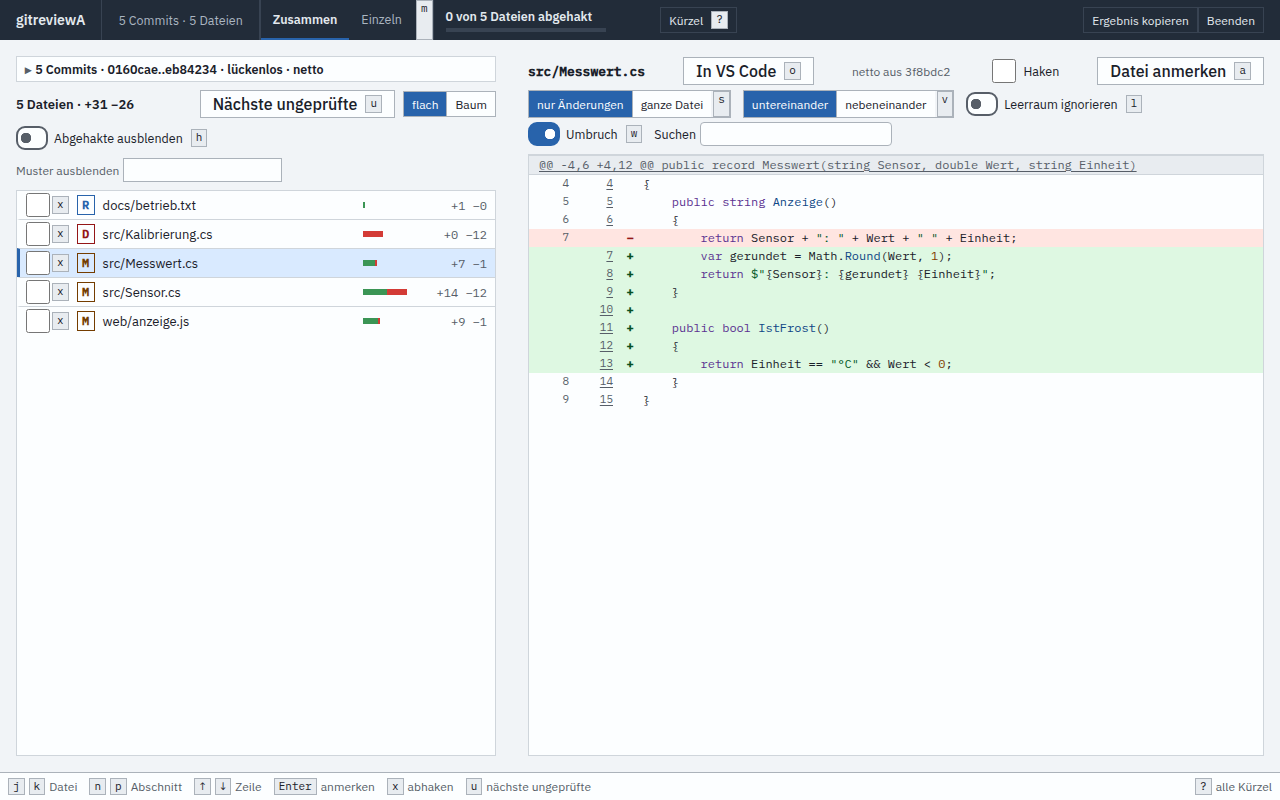
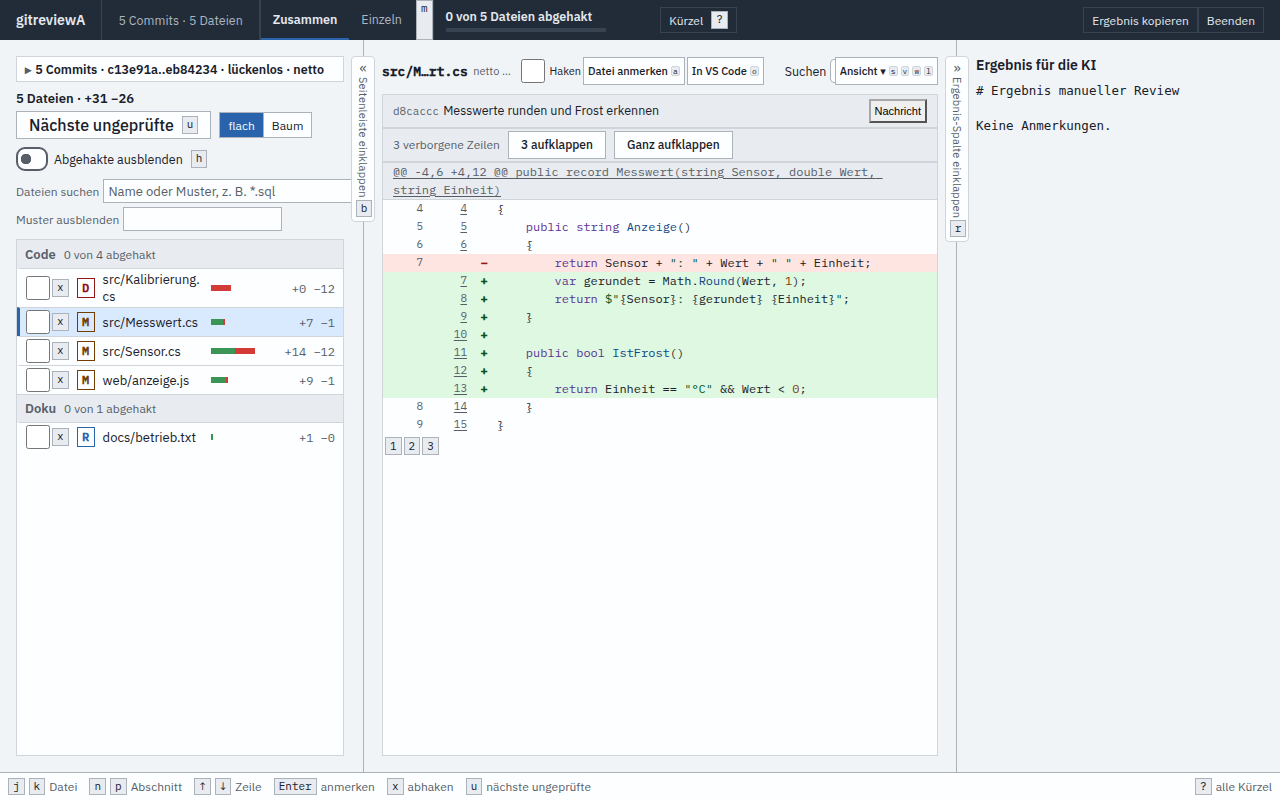
[R00000] README: neues Design, Dateiansicht, Grenzen
Alle Bilder neu aufgenommen, drei neue (Arbeitsplatz, Dateisuche, Dateiansicht),
ERZEUGEN.md nachgezogen (Hashes, SQL-Dateien, neutraler Pfad). README beschreibt
Seitenleiste, Ergebnis-Spalte, Ansicht, Gruppen, Dateisuche, Absicht der KI,
Art der Anmerkung und die Dateiansicht; Grenzen ohne Geschwindigkeitszusage.

Changed region(s): [[0.0, 0.0625, 0.9688, 0.5625], [0.0938, 0.0625, 0.25, 0.0938], [0.2812, 0.5312, 0.3438, 0.5625]]

diff --git a/README.md b/README.md
@@ -1,10 +1,10 @@
 # gitreviewA
 
-gitreviewA ist ein Kommandozeilenwerkzeug für Reviews von Git-Commits: Sie rufen es in einem Repository mit einer Auswahl von Commits auf, sehen die Änderungen in einer schlichten Weboberfläche durch, haken geprüfte Dateien ab und hängen Anmerkungen an Stellen im Diff. Mit **Beenden** gibt es das „Ergebnis manueller Review“ auf stdout aus — an Sie im Terminal oder an die KI, die das Werkzeug aufgerufen hat und auf Ihr Urteil wartet.
+gitreviewA ist ein Kommandozeilenwerkzeug für Reviews von Git-Commits: Sie rufen es in einem Repository mit einer Auswahl von Commits auf, sehen die Änderungen in einer schlichten Weboberfläche durch, haken geprüfte Dateien ab und hängen Anmerkungen an Stellen im Diff. Mit **Beenden** gibt es das „Ergebnis manueller Review“ auf stdout aus — an Sie im Terminal oder an die KI, die das Werkzeug aufgerufen hat und auf Ihr Urteil wartet. Für einzelne Dateien, zum Beispiel ein SQL-Skript, aus dem Sie einen Bereich kopieren, gibt es die [Dateiansicht](#dateien-einzeln-ansehen-die-dateiansicht).
 
 Lizenz: MIT, siehe [LICENSE](LICENSE).
 
-![gitreviewA im Modus Zusammen: links die geänderten Dateien aller gewählten Commits, rechts der Diff der gewählten Datei](Dokumentation/Bilder/readme/01-zusammen.png)
+![gitreviewA nach dem Start: links die geänderten Dateien in den Gruppen Code und Doku, in der Mitte der Diff der gewählten Datei mit dem Block über dem Diff, rechts die Ergebnis-Spalte](Dokumentation/Bilder/readme/01-zusammen.png)
 
 Die Bilder in dieser Datei zeigen ein erfundenes Beispiel-Repository „Wetterstation“ ([so entstehen sie](Dokumentation/Bilder/readme/ERZEUGEN.md)).
 
@@ -14,10 +14,11 @@ Die Bilder in dieser Datei zeigen ein erfundenes Beispiel-Repository „Wetterst
 2. [Installation](#installation)
 3. [Erste Review in zwei Minuten](#erste-review-in-zwei-minuten)
 4. [Die Oberfläche](#die-oberfläche)
-5. [Für KI und Automatisierung: der Aufrufvertrag](#für-ki-und-automatisierung-der-aufrufvertrag)
-6. [Grenzen](#grenzen)
-7. [Für Mitentwickler](#für-mitentwickler)
-8. [Lizenz und Herkunft](#lizenz-und-herkunft)
+5. [Dateien einzeln ansehen: die Dateiansicht](#dateien-einzeln-ansehen-die-dateiansicht)
+6. [Für KI und Automatisierung: der Aufrufvertrag](#für-ki-und-automatisierung-der-aufrufvertrag)
+7. [Grenzen](#grenzen)
+8. [Für Mitentwickler](#für-mitentwickler)
+9. [Lizenz und Herkunft](#lizenz-und-herkunft)
 
 ## Wozu
 
@@ -64,7 +65,7 @@ Die Prüfsumme muss mit `gitreviewA-<tag>-linux-x64: OK` bestätigt sein. `~/.lo
 
 1. Im Arbeitsbaum des Repositories `gitreviewA HEAD~5..HEAD` eingeben (die fünf neuesten Commits des Beispiels). Das Terminal zeigt eine Zeile mit der Adresse (`… INFO [Start] gitreviewA läuft auf http://127.0.0.1:<Port>/`), und der Browser öffnet die Oberfläche.
 2. Links eine Datei wählen, zum Beispiel `src/Messwert.cs`. Rechts erscheint ihr Diff über alle gewählten Commits.
-3. Eine geänderte Zeile anklicken, die Anmerkung eintippen und **Speichern** wählen.
+3. Eine geänderte Zeile anklicken, bei **Art** zum Beispiel **Muss** wählen, die Anmerkung eintippen und **Speichern** wählen.
 4. Das Kästchen vor einer Datei in der Liste setzen, um sie abzuhaken. Der Kopf zeigt zum Beispiel **3 von 5 Dateien abgehakt**.
 5. **Beenden** wählen. Die Seite zeigt **Review beendet**, der Prozess endet mit Exit-Code 0, und im Terminal steht das Ergebnis (unverändert aus dem Lauf der Bilder):
 
@@ -75,78 +76,124 @@ Anmerkungen: 3
 
 ## 1. src/Messwert.cs:8
 
-Commit: 3f8bdc2391cfb2b0fb392c7c1aad546c4dfe2e4a
+Commit: d8cacccb4cf4022bb92093dbe13004f8da0b78b3
 
-> Rundung auf eine Stelle: Soll der Rohwert für die Anzeige unverändert bleiben? Bitte Test für -0,04 ergänzen.
+> [Muss] Rundung auf eine Stelle: Soll der Rohwert für die Anzeige unverändert bleiben? Bitte Test für -0,04 ergänzen.
 
 ## 2. src/Sensor.cs:18-19
 
-Commit: 0160cae50b3f566f5af420b64273c53236d6e7bf
+Commit: c13e91a4e52f7f3e7bba3f9b9bce0b37a46b186d
 
     18: 		var wert = lesen();
     19: 		return new Messwert(name, wert, einheit);
 
-> Die Einheit steht jetzt im Sensor. Wird sie irgendwo noch fest als °C angenommen?
+> [Frage] Die Einheit steht jetzt im Sensor. Wird sie irgendwo noch fest als °C angenommen?
 
 ## 3. web/anzeige.js (ganze Datei)
 
 Commit: eb842340d24c9640344f659ba231ddf999a2fde0
 
-> Bei einem Ausfall des Servers bleibt der Zähler stehen. Bitte eine Fehlermeldung in der Liste zeigen.
+> [Idee] Bei einem Ausfall des Servers bleibt der Zähler stehen. Eine Fehlermeldung in der Liste wäre hilfreich.
 
 ## Dateien
 
 Abgehakt: 3 von 5
 
-- src/Kalibrierung.cs (Commit 27d6ef5ebafd4abb5baac521ef8f1d985f3dbf72)
-- docs/betrieb.txt (Commit 2c56ed5a78b23ead8c29e96b88e1c3a3a39e9926)
-- src/Messwert.cs (Commit 3f8bdc2391cfb2b0fb392c7c1aad546c4dfe2e4a)
+- src/Kalibrierung.cs (Commit 74e3438e8ef3b48dab34fb582aeed7307d8bb655)
+- docs/betrieb.txt (Commit a23713d3908f51db91dd9a70174ee01590f1eead)
+- src/Messwert.cs (Commit d8cacccb4cf4022bb92093dbe13004f8da0b78b3)
 
 Ungeprüft: 2 von 5
 
-- src/Sensor.cs (Commit 0160cae50b3f566f5af420b64273c53236d6e7bf)
+- src/Sensor.cs (Commit c13e91a4e52f7f3e7bba3f9b9bce0b37a46b186d)
 - web/anzeige.js (Commit eb842340d24c9640344f659ba231ddf999a2fde0)
 ```
 
 ## Die Oberfläche
 
-Die Oberfläche läuft im Browser unter `127.0.0.1`. Nach dem Start steht **Zusammen** im Kopf gewählt: links die Dateien der ganzen Auswahl, rechts der Diff der gewählten Datei, die Commits als zugeklappte Zeile darüber. Alle Kürzel zeigt **Kürzel** im Kopf oder die Taste `?` (die Liste im Programm ist die Referenz; hier steht sie nicht noch einmal).
+Die Oberfläche läuft im Browser unter `127.0.0.1`. Sie hat drei Bereiche: links die **Seitenleiste** mit den Dateien der Auswahl, in der Mitte der **Diff** der gewählten Datei, rechts die **Ergebnis-Spalte** („Ergebnis für die KI“). Die Spalte zeigt schon während der Arbeit den Text, den **Beenden** ausgibt. Nach dem Start steht **Zusammen** im Kopf gewählt.
+
+![Arbeitsplatz mit drei Bereichen: Seitenleiste mit Dateien, Diff mit aufgeklappter Commit-Nachricht über den Änderungen, Ergebnis-Spalte mit drei Anmerkungen](Dokumentation/Bilder/readme/06-arbeitsplatz.png)
+
+Alle Kürzel zeigt **Kürzel** im Kopf oder die Taste `?` (die Liste im Programm ist die Referenz; hier steht sie nicht noch einmal).
 
 ![Dialog mit den Tastenkürzeln, gruppiert nach Bereichen](Dokumentation/Bilder/readme/05-tastaturhilfe.png)
 
-**Datei wählen und Diff lesen**: Datei in der Liste anklicken (Tasten `j` und `k`). **flach** und **Baum** schalten die Dateiliste um. Die Diffs entsprechen denen von `git`; Syntaxfarben erscheinen bei bekannten Sprachen.
+**Datei wählen und Diff lesen**: Datei in der Liste anklicken (Tasten `j` und `k`). **flach** und **Baum** schalten die Dateiliste um. Die Liste steht in Gruppen **Code**, **Tests** und **Doku**, je mit **n von m abgehakt**; leere Gruppen fehlen. Als **Tests** gelten Dateien in Ordnern wie `test`, `tests`, `spec` oder `e2e` und Namen wie `*Test.cs` oder `*.spec.js`, als **Doku** `.md`-Dateien, Ordner wie `docs` und Dateien wie `README` oder `LICENSE`, alles andere als **Code**. Die Diffs entsprechen denen von `git`; Syntaxfarben erscheinen bei bekannten Sprachen.
 
-![Dateiliste mit abgehakten und ungeprüften Dateien und Fortschrittsanzeige](Dokumentation/Bilder/readme/03-abhaken.png)
+**Die Absicht der KI lesen**: Über dem Diff steht ein Block mit den Commits, die die Datei ändern, je Kurz-Hash und Betreff. Hat ein Commit eine Nachricht, klappt **Nachricht** sie auf. Ab sechs Commits zeigt der Block fünf und eine Schaltfläche **k weitere**. In **Einzeln** steht nur der gewählte Commit.
+
+**Dateien finden**: `f` springt ins Feld **Dateien suchen**. Ein Wort oder ein Muster wie `*.sql` filtert die Liste, ohne auf Groß- und Kleinschreibung zu achten. Der Kopf zählt die Treffer mit, zum Beispiel **2 ausgeblendet, davon 2 Suche**. Gefilterte Dateien bleiben Teil der Auswahl und zählen im Fortschritt.
+
+![Dateiliste nach der Suche *.cs: nur die drei Code-Dateien stehen in der Liste, im Kopf steht 2 ausgeblendet, davon 2 Suche](Dokumentation/Bilder/readme/07-dateisuche.png)
 
 **Dateien abhaken und den Fortschritt sehen**: Kästchen in der Zeile (Taste `x`). Der Kopf zeigt **n von m Dateien abgehakt**. **Nächste ungeprüfte** (Taste `u`) springt zur nächsten Datei ohne Haken, **Abgehakte ausblenden** (Taste `h`) räumt die Liste auf.
 
-![Diff mit einer Anmerkung an einer geänderten Zeile](Dokumentation/Bilder/readme/02-zeile-annotieren.png)
+![Dateiliste mit abgehakten und ungeprüften Dateien und Fortschrittsanzeige](Dokumentation/Bilder/readme/03-abhaken.png)
 
-**Eine Zeile anmerken**: Zeile anklicken, Text eintippen, **Speichern** (oder Strg+Enter). Esc verwirft das Feld. Die Anmerkung steht danach unter der Zeile, mit **Ändern** und **Löschen**; **Löschen** fragt nicht nach.
+**Eine Zeile anmerken**: Zeile anklicken, bei **Art** **ohne**, **Muss**, **Frage** oder **Idee** wählen, Text eintippen, **Speichern** (oder Strg+Enter). Die Tasten `1`, `2` und `3` öffnen das Feld für die gewählte Zeile gleich mit **Muss**, **Frage** oder **Idee**. Esc verwirft das Feld. Die Anmerkung steht danach unter der Zeile, mit **Ändern** und **Löschen**; **Löschen** fragt nicht nach. Im Ergebnis steht die Art vor dem Text, zum Beispiel `> [Muss] …`; ohne Art entfällt die Klammer.
+
+![Diff mit einer Anmerkung der Art Muss an einer geänderten Zeile, rechts dieselbe Anmerkung im Ergebnis](Dokumentation/Bilder/readme/02-zeile-annotieren.png)
 
 **Einen Zeilenbereich anmerken**: erste Zeile anklicken, mit gedrückter Umschalttaste die zweite Zeile desselben Abschnitts anklicken. Die markierten Zeilen sind hervorgehoben, die Anmerkung steht unter der letzten.
 
 **Eine ganze Datei anmerken**: **Datei anmerken** (Taste `a`).
 
-**Anordnung und Darstellung wählen**: **untereinander** oder **nebeneinander** (alte Fassung links, neue rechts), **nur Änderungen** oder **ganze Datei**, **Umbruch** (beim Start an) und **Leerraum ignorieren**.
+**Darstellung wählen**: **Ansicht ▾** in der Werkzeugleiste über dem Diff öffnet die Wahl **nur Änderungen** oder **ganze Datei** (Taste `s`), **untereinander** oder **nebeneinander** (alte Fassung links, neue rechts; Taste `v`), **Leerraum ignorieren** (Taste `l`) und **Umbruch** (Taste `w`; beim Start an).
 
 ![Diff zweispaltig, links alte, rechts neue Fassung, mit Bereichsanmerkung und ignoriertem Leerraum](Dokumentation/Bilder/readme/04-nebeneinander.png)
 
-**Lücken aufklappen**: In **Einzeln** und in **Zusammen** zeigt der Diff vor dem ersten, zwischen zwei und nach dem letzten Abschnitt **n verborgene Zeilen** mit den Schaltflächen **20 aufklappen** und **Ganz aufklappen**.
+**Lücken aufklappen**: In **Einzeln** und in **Zusammen** zeigt der Diff vor dem ersten, zwischen zwei und nach dem letzten Abschnitt **n verborgene Zeilen** mit den Schaltflächen **n aufklappen** (höchstens 20 Zeilen je Klick) und **Ganz aufklappen**. Die Taste `g` springt zur nächsten Lücke.
 
-**Im Diff suchen**: Text in **Suchen** eintippen und Enter drücken. Die Treffer sind hervorgehoben, ein Zähler nennt ihre Zahl, zum Beispiel **1 von 2**.
+**Im Diff suchen**: Taste `/` oder ein Klick in **Suchen**, Text eintippen und Enter drücken. Die Treffer sind hervorgehoben, ein Zähler nennt ihre Zahl, zum Beispiel **1 von 3**.
+
+**Seitenleiste und Ergebnis-Spalte anpassen**: Die Seitenleiste bleibt stehen, während Sie im Diff blättern. Ziehen Sie den Trenner neben einer Spalte, um sie zu verbreitern oder zu verschmälern (je Spalte 240 bis 640 Pixel); am Trenner verstellen die Pfeiltasten um 16 Pixel, Pos1 und Ende setzen die Grenzen, ein Doppelklick die Ausgangsbreite. Die Taste `b` klappt die Seitenleiste ein und aus, `r` die Ergebnis-Spalte. Ab einer Fensterbreite von 1 012 Pixeln startet die Ergebnis-Spalte ausgeklappt; in einem engeren Fenster ist sie eingeklappt, bis Sie sie ausklappen.
 
 **Dateien ausblenden**: In **Muster ausblenden** ein Muster wie `*.lock` eintippen und mit Enter bestätigen; **Entfernen** nimmt es zurück. Der Kopf zeigt, wie viele Dateien ausgeblendet sind. Ausgeblendete Dateien bleiben Teil der Auswahl, zählen im Fortschritt und stehen im Ergebnis. Dieselben Muster setzt der Aufruf mit `--ignore`.
 
 **Commits einzeln durchgehen**: **Einzeln** (Taste `m`) zeigt eine Commit-Liste mit Vor- und Zurück-Schaltflächen (Tasten `[` und `]`). Der Haken gilt dort je Stelle, also je Commit und Datei; der Kopf zählt **Stellen**. **Zusammen** fasst die Commits je Datei zusammen — als Netto-Diff, wo die Commits eine lückenlose Kette bilden (die Commit-Zeile sagt **lückenlos · netto**), sonst je Commit beschriftet.
 
-**In den Editor springen**: **In VS Code** (Taste `o`) oder die Zeilennummer öffnet die Stelle über einen `vscode://`-Link. Liegt die Datei nicht im Arbeitsbaum, steht **Datei liegt nicht im Arbeitsbaum** im Kopf.
+**In den Editor springen**: **In VS Code** (Taste `o`) oder die Zeilennummer öffnet die Stelle über einen `vscode://`-Link. Liegt die Datei nicht im Arbeitsbaum, steht **Datei liegt nicht im Arbeitsbaum** im Kopf der Datei.
 
 **Ergebnis kopieren**: **Ergebnis kopieren** meldet **Ergebnis kopiert**; der Lauf geht weiter.
 
 **Beenden**: **Beenden** schließt den Lauf und gibt das Ergebnis aus.
 
+## Dateien einzeln ansehen: die Dateiansicht
+
+Die Dateiansicht zeigt einzelne Dateien, ohne Commits und ohne Anmerkungen. Sie hilft, wenn Sie aus einem Skript, etwa einer SQL-Datei, einen Bereich oder die ganze Datei kopieren wollen. Der Aufruf nennt die Dateien hinter `--dateien`:
+
+```bash
+gitreviewA --dateien datenbank/schema.sql datenbank/auswertung.sql
+gitreviewA --dateien d8caccc:src/Messwert.cs ../datenbank/schema.sql
+```
+
+- **Mehrere Dateien** stehen als Liste in der Seitenleiste, je Datei mit ihrer Zeilenzahl.
+- **`<commit>:<pfad>`** zeigt die Datei, wie sie in diesem Commit stand: 4 bis 64 Hexziffern, ein Doppelpunkt und der Pfad im Repository. Der Aufruf läuft dann im Repository. Datei vom Datenträger und Commit-Angabe lassen sich mischen.
+- Beginnt ein Dateiname mit `-`, setzen Sie `--` davor: `gitreviewA --dateien -- -x.sql`.
+
+![Dateiansicht mit zwei SQL-Dateien in der Seitenleiste, einem markierten Bereich von Zeile 2 bis 10 und der Suche nach messwert mit zwei Treffern](Dokumentation/Bilder/readme/08-dateiansicht.png)
+
+Der Kopf nennt Dateiname, Pfad (bei einer Commit-Angabe den vollen Hash) und zum Beispiel **456 Bytes · 16 Zeilen · UTF-8 · LF**.
+
+**Einen Bereich markieren und kopieren**: Zeilennummer anklicken, mit gedrückter Umschalttaste eine zweite Nummer anklicken (oder ziehen, oder Umschalt+↑ und Umschalt+↓). Die Meldung sagt zum Beispiel **Zeilen 2–10 markiert**. **Bereich kopieren** (Taste `y`) legt die Zeilen in die Zwischenablage und meldet **Zeilen 2–4 kopiert**; Esc hebt die Markierung auf.
+
+**Die ganze Datei kopieren**: **Datei kopieren** (Taste `c`) meldet **Datei kopiert (17 Zeilen)**.
+
+**In der Datei suchen**: Taste `/`, Text eintippen, Enter drücken; ein Zähler nennt die Treffer, zum Beispiel **1 von 2**. **Umbruch** (Taste `w`) ist beim Start an. Seitenleiste und Trenner verhalten sich wie im Review.
+
+**Aufrufvertrag der Dateiansicht**: stdout bleibt immer leer. **Schließen** beendet die Ansicht mit Exit 0 (die Seite sagt **Dateiansicht geschlossen**). Die Optionen sind `--port`, `--kein-browser`, `--verbose` und `--quiet`; ein Hash, ein Bereich, `-` oder `--ignore` daneben ist ein ungültiger Aufruf.
+
+| Code | Anlass | stderr |
+|---|---|---|
+| 0 | **Schließen** | Adresse |
+| 2 | ungültiger Aufruf: keine Angabe, Datei nicht gefunden, Verzeichnis, symbolischer Link, Binärdatei, UTF-16, ungültiges UTF-8, zu groß, Commit oder Pfad nicht gefunden | `FEHLER [Dateiansicht] <Angabe>: <Grund>` oder `FEHLER [Aufruf] …` |
+| 130 | Abbruch durch Strg+C, `SIGINT` oder `SIGTERM` | `WARNUNG [Abbruch] Review abgebrochen` |
+| 1 | Fehler nach dem Start, zum Beispiel der Port ist belegt | `FEHLER [Server] Server ließ sich nicht starten: …` |
+
 ## Für KI und Automatisierung: der Aufrufvertrag
+
+Dieser Abschnitt gilt für den Review. Die Dateiansicht (`gitreviewA --dateien …`) hat einen eigenen, kürzeren Vertrag: [siehe dort](#dateien-einzeln-ansehen-die-dateiansicht).
 
 **Aufruf**
 
@@ -192,7 +239,7 @@ gitreviewA <hash…> | <von>..<bis>… | - [--port <n>] [--kein-browser] [--igno
 **Ergebnisformat**: Markdown, UTF-8, Zeilenende LF, nur auf stdout. Das Beispiel oben zeigt es vollständig.
 
 - Überschrift `# Ergebnis manueller Review`, dann `Anmerkungen: <n>` oder `Keine Anmerkungen.`
-- Je Anmerkung ein Abschnitt `## <Nr>. <Stelle>` in der Reihenfolge des Anlegens, mit `Commit: <voller Hash>`; der Text steht als Zitat (`> …`).
+- Je Anmerkung ein Abschnitt `## <Nr>. <Stelle>` in der Reihenfolge des Anlegens, mit `Commit: <voller Hash>`; der Text steht als Zitat (`> …`). Hat die Anmerkung eine **Art**, steht sie vor dem Text: `> [Muss] …`, `> [Frage] …` oder `> [Idee] …`; ohne Art fehlt die Klammer.
 - **Stelle** ist `<Datei>:<Zeile>`, bei einem Bereich `<Datei>:<von>-<bis>` (zusätzlich ein Zitat der markierten Zeilen, höchstens 20, danach `… (k weitere Zeilen)`) oder `<Datei> (ganze Datei)`. Die Zeilennummern gelten für die neue Fassung.
 - Der Commit nennt den Stand, auf den sich die Anmerkung bezieht, nicht den Urheber. In **Zusammen** ist es der jüngste Commit der Auswahl, der die Datei ändert.
 - Ab dem ersten Haken folgt `## Dateien`: `Abgehakt: n von m` und `Ungeprüft: n von m`, je Stelle eine Zeile `- <Datei> (Commit <voller Hash>)`.
@@ -221,7 +268,17 @@ Das Ergebnis ist Text, kein Bild. Eine KI liest es direkt als Arbeitsauftrag.
 - **Kein Pull-Request-Ersatz**: keine Kommentare zurück zu GitHub, keine Freigabe-Workflows. **Kein Editor**: gitreviewA ändert keine Dateien und keine Commits.
 - **Kein Gesamturteil**: **Beenden** endet immer mit Exit 0; ein zweites Ausgabeformat (JSON) gibt es nicht.
 - **Git nur über die `git`-Kommandozeile**; nur Repositories mit Arbeitsbaum (ein nacktes Repository ist ein ungültiger Aufruf).
-- **Auswahl bis 1 000 Commits** je Lauf. Das Lastprofil der Vision — flüssig bis 200 Commits, 2 000 Dateien, 20 000 Diff-Zeilen je Datei und 500 Anmerkungen — ist die **Auslegung**, ein Ziel aus [`Anforderungen/R00000-vision.md`](Anforderungen/R00000-vision.md), keine Messung.
+- **Keine Geschwindigkeitszusage**: gitreviewA nennt keine Zeitziele. Verbindlich sind nur die Mengengrenzen unten.
+
+**Mengengrenzen, die Sie sehen**
+
+- **Auswahl**: bis 1 000 Commits je Lauf; ab 201 warnt gitreviewA auf stderr.
+- **8 MiB je Lesung aus git**: Ist die Ausgabe größer, zeigt der Diff statt einer gekürzten Anzeige **Diff zu groß — die Ausgabe von git überschreitet die Grenze von 8388608 Byte**.
+- **Commit-Nachricht**: Die Anzeige im Block **Absicht der KI** endet nach 20 000 Zeichen mit **… (n Zeichen nicht gezeigt)**.
+- **Dateiansicht**: höchstens 50 Dateien und zusammen 32 MiB, eine einzelne Datei höchstens 8 MiB. Der Aufruf endet sonst mit Exit 2 und sagt zum Beispiel `zu viele Dateien (51, höchstens 50)`, `zu groß (über 8 MiB)` oder `zusammen zu groß (über 32 MiB)`.
+
+**Stand der Plattformen**
+
 - **Plattformen**: gebaut werden die fünf oben genannten; von Hand geprüft ist Linux x64.
 - **Frameworkabhängig**: die .NET-10-Runtime (ASP.NET Core) muss installiert sein.
 - **macOS**: ohne Signatur und Notarisierung; Gatekeeper warnt.
@@ -253,13 +310,13 @@ Ohne Argument erzeugt das Skript `linux-x64`, `win-x64` und `osx-arm64`; bekannt
 
 | Ordner | Inhalt |
 |---|---|
-| `src/GitReviewA` | das Programm; ein Ordner je Thema (`Aufruf`, `Git`, `Server`, `Diff`, `Zusammen`, `Anmerkungen`, `Haken`, `Beenden`, `Sprung`, `Protokoll`, `Fremdtext` …) |
+| `src/GitReviewA` | das Programm; ein Ordner je Thema (`Aufruf`, `Git`, `Server`, `Diff`, `Zusammen`, `Dateiansicht`, `Anmerkungen`, `Haken`, `Beenden`, `Sprung`, `Protokoll`, `Fremdtext` …) |
 | `src/GitReviewA/web` | die eingebettete Weboberfläche (HTML, JavaScript, CSS, Schriften, Prism) |
 | `tests/GitReviewA.Tests` | NUnit: Unit- und Integrationstests, `Akzeptanz/` für die Akzeptanzkriterien |
 | `e2e` | Playwright-Tests gegen das echte Programm (`tests/`, `treiber/`, `dsl/`) |
 | `skripte` | `veroeffentlichen.sh` |
 | `Anforderungen` | die Vision `R00000` und die Anforderungen `R00001` ff., dazu `user-stories/` |
-| `Dokumentation` | `Planung/` (Arbeitsstrukturplan), `Sicherheit/`, `Wireframes/`, `Bilder/readme/` |
+| `Dokumentation` | `Planung/` (Arbeitsstrukturplan), `Sicherheit/`, `Wireframes/`, `Auftraege/`, `Bilder/readme/` |
 | `AI-Team` | Konfiguration und Entscheidungen des KI-Teams, das gitreviewA baut |
 
 **Release**: Ein Tag `v*` löst `.github/workflows/release.yml` aus. Der Lauf veröffentlicht je Plattform eine Datei, benennt sie `gitreviewA-<tag>-<plattform>` und hängt sie samt `SHA256SUMS.txt` an ein GitHub-Release.

diff --git a/Dokumentation/Bilder/readme/ERZEUGEN.md b/Dokumentation/Bilder/readme/ERZEUGEN.md
@@ -2,7 +2,7 @@
 
 Die Bilder unter `Dokumentation/Bilder/readme/` zeigen das echte Programm in einem **erfundenen** Beispiel-Repository „Wetterstation“. Diese Anleitung stellt dieselben Bilder nach einer Änderung der Oberfläche wieder her. Das Ergebnis im Terminal (README, Abschnitt „Erste Review in zwei Minuten“) ist kein Bild, sondern die unveränderte stdout-Ausgabe desselben Laufs.
 
-Letzter Lauf: 2026-11-25, Stand von `main` mit I0032 (Zeilenbereich), I0033 (Umbruch an), I0034 (Seitenleiste bleibt stehen).
+Letzter Lauf: 2026-11-26, Stand des Zweigs `karte/59` (Basis: `main` mit dem neuen Design, der Dateiansicht `--dateien` und der Dateisuche). Alle acht Bilder stammen aus diesem Lauf.
 
 ## Voraussetzungen
 
@@ -12,7 +12,7 @@ Letzter Lauf: 2026-11-25, Stand von `main` mit I0032 (Zeilenbereich), I0033 (Umb
 
 ## 1. Das Wegwerf-Repository anlegen
 
-Das Skript legt sechs Commits an. Autor ist `Alex Beispiel <alex@example.org>`, Autor- und Commit-Zeit sind fest (`+0000`), deshalb sind die Hashes bei jedem Lauf gleich. Die globale und die System-Konfiguration von git bleiben außen vor.
+Das Skript legt sechs Commits an; der Commit „Messwerte runden und Frost erkennen“ trägt zusätzlich eine Nachricht mit Rumpf (sie erscheint im Block **Absicht der KI** auf **Nachricht**). Autor ist `Alex Beispiel <alex@example.org>`, Autor- und Commit-Zeit sind fest (`+0000`), deshalb sind die Hashes bei jedem Lauf gleich. Die globale und die System-Konfiguration von git bleiben außen vor.
 
 Das Beispiel enthält zwei Dateitypen mit Syntaxfarben (`.cs`, `.js`), eine Umbenennung (`docs/hinweise.txt` nach `docs/betrieb.txt`), eine Löschung (`src/Kalibrierung.cs`) und eine gemischte Änderung mit Leerraum (`src/Sensor.cs`, Tabulatoren statt Leerzeichen und eine echte Änderung).
 
@@ -146,7 +146,7 @@ public record Messwert(string Sensor, double Wert, string Einheit)
     }
 }
 X
-git add -A; git commit -q -m "Messwerte runden und Frost erkennen"
+git add -A; git commit -q -m "Messwerte runden und Frost erkennen" -m "Die Anzeige rundet auf eine Stelle. IstFrost() gilt nur für °C und Werte unter null."
 
 # 4
 tag 05 08:45
@@ -199,18 +199,67 @@ Aufruf: `bash baue-repo.sh <arbeit>/wetterstation`. Erwartete Hashes (neueste zu
 
 | Hash | Commit |
 |---|---|
-| `0160cae50b3f566f5af420b64273c53236d6e7bf` | Sensor kennt seine Einheit |
-| `27d6ef5ebafd4abb5baac521ef8f1d985f3dbf72` | Alten Kalibrierwert entfernen |
-| `2c56ed5a78b23ead8c29e96b88e1c3a3a39e9926` | Hinweise in betrieb.txt umbenennen |
-| `3f8bdc2391cfb2b0fb392c7c1aad546c4dfe2e4a` | Messwerte runden und Frost erkennen |
+| `c13e91a4e52f7f3e7bba3f9b9bce0b37a46b186d` | Sensor kennt seine Einheit |
+| `74e3438e8ef3b48dab34fb582aeed7307d8bb655` | Alten Kalibrierwert entfernen |
+| `a23713d3908f51db91dd9a70174ee01590f1eead` | Hinweise in betrieb.txt umbenennen |
+| `d8cacccb4cf4022bb92093dbe13004f8da0b78b3` | Messwerte runden und Frost erkennen |
 | `eb842340d24c9640344f659ba231ddf999a2fde0` | Anzeige aktualisiert sich alle zehn Sekunden |
 | `ab1e5d228d87c00a5a8dc9791b303f5fcbec538d` | Wetterstation anlegen |
 
 Prüfen: `git -C <arbeit>/wetterstation log --format=%H` muss genau diese Liste ausgeben. Weichen die Hashes ab, stimmen Bilder und Ergebnis-Beispiel nicht mehr zusammen.
 
-## 2. Das Programm starten
+## 2. Die SQL-Dateien für die Dateiansicht anlegen
 
-Freien Port bestimmen und das Programm im Beispiel-Repository starten, stdout und stderr in Dateien:
+Die Dateiansicht (`--dateien`) zeigt Dateien vom Datenträger. Dafür liegen zwei erfundene SQL-Dateien im Ordner `<arbeit>/datenbank/`, **nicht** im Repository `wetterstation`.
+
+**Wichtig**: Der Kopf der Dateiansicht zeigt den **absoluten Pfad** der Datei. Arbeiten Sie deshalb in einem Ordner mit neutralem Pfad (im Lauf: `/tmp/beispiel/`), nie unter einem Benutzerordner. Das Repository `wetterstation` gehört für den Aufruf mit `<commit>:<pfad>` in denselben Ordner.
+
+`<arbeit>/datenbank/schema.sql`:
+
+```sql
+-- Wetterstation: Tabellen für Sensoren und Messwerte
+CREATE TABLE sensor (
+    id        INTEGER PRIMARY KEY,
+    name      TEXT NOT NULL UNIQUE,
+    einheit   TEXT NOT NULL DEFAULT '°C'
+);
+
+CREATE TABLE messwert (
+    id          INTEGER PRIMARY KEY,
+    sensor_id   INTEGER NOT NULL REFERENCES sensor (id),
+    gemessen_am TEXT NOT NULL,
+    wert        REAL NOT NULL
+);
+
+CREATE INDEX ix_messwert_sensor_zeit
+    ON messwert (sensor_id, gemessen_am);
+```
+
+`<arbeit>/datenbank/auswertung.sql`:
+
+```sql
+-- Wetterstation: Tagesauswertung je Sensor
+SELECT s.name,
+       date(m.gemessen_am)  AS tag,
+       round(avg(m.wert), 1) AS mittel,
+       min(m.wert)          AS tiefster,
+       max(m.wert)          AS hoechster
+  FROM messwert AS m
+  JOIN sensor   AS s ON s.id = m.sensor_id
+ WHERE m.gemessen_am >= date('now', '-7 days')
+ GROUP BY s.name, date(m.gemessen_am)
+ ORDER BY tag DESC, s.name;
+
+-- Frosttage der letzten 30 Tage
+SELECT date(gemessen_am) AS tag, min(wert) AS tiefster
+  FROM messwert
+ WHERE wert < 0
+ GROUP BY date(gemessen_am);
+```
+
+## 3. Das Programm starten
+
+Freien Port bestimmen und das Programm starten, stdout und stderr in Dateien. Für die Bilder 01 bis 07 im Beispiel-Repository:
 
 ```bash
 P=$(python3 -c "import socket;s=socket.socket();s.bind(('127.0.0.1',0));print(s.getsockname()[1])")
@@ -221,40 +270,53 @@ echo $! > ../pid
 
 `../ergebnis.err` muss `INFO [Start] gitreviewA läuft auf http://127.0.0.1:<Port>/` zeigen. Der Aufruf `HEAD~5..HEAD` wählt die fünf neuesten Commits (alle außer „Wetterstation anlegen“).
 
-## 3. Die Bilder aufnehmen
+Für Bild 08 (Dateiansicht) eine zweite Instanz auf einem anderen freien Port, im Ordner `<arbeit>` (nicht im Repository):
 
-Fenster **1280 × 800**, Hell-Darstellung, kein Mauszeiger, keine Entwicklerwerkzeuge. Alle Zustände werden über die Oberfläche hergestellt (klicken, tippen), nicht im Browser verändert. Playwright-MCP: `browser_resize` auf 1280 × 800, `browser_navigate` auf `http://127.0.0.1:<Port>/`, Bilder mit `browser_take_screenshot` (PNG, Viewport).
+```bash
+cd <arbeit>
+dotnet <pfad>/gitreviewA.dll --dateien datenbank/schema.sql datenbank/auswertung.sql --kein-browser --port $P2 > da.out 2> da.err &
+echo $! > pid2
+```
 
-Die Schritte bauen aufeinander auf; die Reihenfolge einhalten.
+## 4. Die Bilder aufnehmen
+
+Fenster **1280 × 800**, Hell-Darstellung, kein Mauszeiger, keine Entwicklerwerkzeuge. Alle Zustände werden über die Oberfläche hergestellt (klicken, tippen), nicht im Browser verändert. Playwright-MCP: `browser_resize` auf 1280 × 800, `browser_navigate` auf `http://127.0.0.1:<Port>/`, Bilder mit `browser_take_screenshot` (PNG, Viewport, Dateiname im eigenen Ablageordner). Umschalt-Klick: `browser_click` mit `modifiers: ["Shift"]`. Einen Zeilentext wählen Sie über die Zelle, zum Beispiel `getByRole('cell', { name: /hinzugefügt: return \$/ })`.
+
+Die Schritte bauen aufeinander auf; die Reihenfolge einhalten. Bei jeder Anmerkung zuerst die **Art** (Radiogruppe über dem Feld: **ohne**, **Muss**, **Frage**, **Idee**) wählen, dann den Text eintippen, dann **Speichern**.
 
 | Bild | Schritte | Zustand im Bild |
 |---|---|---|
-| `01-zusammen.png` | **Zusammen** ist beim Start gewählt. Datei `src/Messwert.cs` in der Liste anklicken. Bild aufnehmen. | links die fünf Dateien, rechts der Diff von `src/Messwert.cs`, Commits als zugeklappte Zeile, Fortschritt **0 von 5 Dateien abgehakt** |
-| `02-zeile-annotieren.png` | In `src/Messwert.cs` die Zeile `return $"{Sensor}: {gerundet} {Einheit}";` (Nummer neu 8) anklicken. Im Feld eintippen: `Rundung auf eine Stelle: Soll der Rohwert für die Anzeige unverändert bleiben? Bitte Test für -0,04 ergänzen.` **Speichern** wählen. Bild aufnehmen. | Anmerkung 1 unter Zeile 8 |
-| `05-tastaturhilfe.png` | **Kürzel** im Kopf anklicken. Bild aufnehmen. Danach den Dialog mit **×** schließen. | Dialog **Tastaturkürzel** über der Oberfläche |
-| (Vorbereitung) | `src/Sensor.cs` wählen. Zeile `var wert = lesen();` (Nummer neu 18) anklicken, mit gedrückter Umschalttaste die Zeile `return new Messwert(name, wert, einheit);` (Nummer neu 19) anklicken. Eintippen: `Die Einheit steht jetzt im Sensor. Wird sie irgendwo noch fest als °C angenommen?` **Speichern**. | Bereichsanmerkung `src/Sensor.cs:18-19` (Anmerkung 2) |
-| (Vorbereitung) | `web/anzeige.js` wählen, **Datei anmerken** wählen, eintippen: `Bei einem Ausfall des Servers bleibt der Zähler stehen. Bitte eine Fehlermeldung in der Liste zeigen.` **Speichern**. | Dateianmerkung (Anmerkung 3) |
-| `03-abhaken.png` | Die Kästchen vor `docs/betrieb.txt`, `src/Kalibrierung.cs` und `src/Messwert.cs` setzen. `web/anzeige.js` ist gewählt. Bild aufnehmen. | drei Haken, Fortschritt **3 von 5 Dateien abgehakt**, Dateianmerkung über dem Diff |
-| `04-nebeneinander.png` | **nebeneinander** wählen, `src/Sensor.cs` wählen, **Leerraum ignorieren** einschalten. Bild aufnehmen. | zweispaltiger Diff mit Bereichsanmerkung 18–19; die Einrückungsänderung ist ausgeblendet |
+| `01-zusammen.png` | **Zusammen** ist beim Start gewählt. Datei `src/Messwert.cs` in der Liste anklicken. Bild aufnehmen. | links Seitenleiste mit den fünf Dateien in den Gruppen **Code** und **Doku**, in der Mitte der Diff von `src/Messwert.cs` mit dem Block über dem Diff (Commit `d8caccc`), rechts die Ergebnis-Spalte mit **Keine Anmerkungen.**, im Kopf **0 von 5 Dateien abgehakt** |
+| `02-zeile-annotieren.png` | In `src/Messwert.cs` die Zeile `return $"{Sensor}: {gerundet} {Einheit}";` (Nummer neu 8) anklicken. Art **Muss**, Text `Rundung auf eine Stelle: Soll der Rohwert für die Anzeige unverändert bleiben? Bitte Test für -0,04 ergänzen.`, **Speichern**. Bild aufnehmen. | Anmerkung 1 mit der Art **Muss** unter Zeile 8; rechts erscheint sie im Ergebnis mit `[Muss]` |
+| (Vorbereitung) | `src/Sensor.cs` wählen. Zeile `var wert = lesen();` (Nummer neu 18) anklicken, mit gedrückter Umschalttaste `return new Messwert(name, wert, einheit);` (Nummer neu 19) anklicken. Art **Frage**, Text `Die Einheit steht jetzt im Sensor. Wird sie irgendwo noch fest als °C angenommen?`, **Speichern**. | Bereichsanmerkung `src/Sensor.cs:18-19` (Anmerkung 2) |
+| (Vorbereitung) | `web/anzeige.js` wählen, **Datei anmerken**, Art **Idee**, Text `Bei einem Ausfall des Servers bleibt der Zähler stehen. Eine Fehlermeldung in der Liste wäre hilfreich.`, **Speichern**. | Dateianmerkung (Anmerkung 3) |
+| `03-abhaken.png` | Die Kästchen vor `docs/betrieb.txt`, `src/Kalibrierung.cs` und `src/Messwert.cs` setzen. `web/anzeige.js` ist gewählt. Bild aufnehmen. | drei Haken, **3 von 5 Dateien abgehakt**, Dateianmerkung über dem Diff |
+| `06-arbeitsplatz.png` | `src/Messwert.cs` wählen, im Block über dem Diff **Nachricht** wählen. Bild aufnehmen. | alle drei Bereiche: Seitenleiste, Diff mit aufgeklappter Nachricht des Commits, Ergebnis-Spalte mit den drei Anmerkungen |
+| `04-nebeneinander.png` | `src/Sensor.cs` wählen. **Ansicht ▾** öffnen und **nebeneinander** wählen, **Ansicht ▾** erneut öffnen und **Leerraum ignorieren** wählen, dann **Ergebnis-Spalte einklappen** wählen (mehr Platz für den Diff). Bild aufnehmen. | zweispaltiger Diff mit Bereichsanmerkung 18–19; die Einrückungsänderung ist ausgeblendet; die Ergebnis-Spalte ist ein schmaler Streifen |
+| `05-tastaturhilfe.png` | **Kürzel** im Kopf anklicken. Bild aufnehmen. Danach den Dialog mit **Kürzel schließen** (×) schließen. | Dialog **Tastaturkürzel** über der Oberfläche |
+| `07-dateisuche.png` | **Ergebnis-Spalte ausklappen** wählen. Im Feld **Dateien suchen** `*.cs` eintippen. Bild aufnehmen. | Liste nur mit den drei `.cs`-Dateien, im Kopf **2 ausgeblendet, davon 2 Suche** |
+| `08-dateiansicht.png` | Zweite Instanz (`--dateien`) öffnen. Datei `datenbank/auswertung.sql` in der Liste anklicken. Auf die Zeilennummer 2 klicken, mit gedrückter Umschalttaste auf die Nummer 10. Im Feld **Suchen** `messwert` eintippen und Enter drücken. Bild aufnehmen. | Kopf mit Dateiname und Pfad `/tmp/beispiel/datenbank/auswertung.sql`, Zeilen 2–10 markiert, **1 von 2** Treffer, **Bereich kopieren** aktiv |
 
-Nicht aufgenommen ist Bild 6 (Rückfrage vor **Beenden**): Die Interaction „Beenden und Abbrechen im Kopf“ (I0028) war beim Lauf noch nicht umgesetzt. Sobald sie grün ist, kommt `06-beenden.png` hinzu: nach Schritt `03-abhaken` **Beenden** wählen und die Rückfrage aufnehmen.
+Nicht aufgenommen ist ein Bild vom Beenden: Die Interaction „Beenden und Abbrechen im Kopf“ (I0028) ist nicht gebaut. **Beenden** beendet heute sofort, ohne Rückfrage.
 
 Danach Bildgröße prüfen (jede Datei höchstens etwa 300 KB, 1280 × 800) und die Bilder nach `Dokumentation/Bilder/readme/` kopieren.
 
-## 4. Das Ergebnis für die README holen
+## 5. Das Ergebnis für die README holen
 
-Im selben Lauf **Beenden** wählen (der Prozess endet mit Exit 0). Das Ergebnis steht in `<arbeit>/ergebnis.out` und kommt **unverändert** in den Codeblock der README. Die Hashes darin müssen denen der Tabelle oben entsprechen. Dateien mit Tabulatoren (`src/Sensor.cs`) liefern Tabulatoren im Zitat; sie bleiben erhalten.
+Im selben Lauf wie die Bilder 01–07 **Beenden** wählen (der Prozess endet mit Exit 0). Das Ergebnis steht in `<arbeit>/ergebnis.out` und kommt **unverändert** in den Codeblock der README. Die Hashes darin müssen denen der Tabelle oben entsprechen. Dateien mit Tabulatoren (`src/Sensor.cs`) liefern Tabulatoren im Zitat; sie bleiben erhalten.
 
-Kontrolle: `Anmerkungen: 3`, Anmerkung 1 `src/Messwert.cs:8` mit Commit `3f8bdc2…`, Anmerkung 2 `src/Sensor.cs:18-19` mit Commit `0160cae…`, Anmerkung 3 `web/anzeige.js (ganze Datei)` mit Commit `eb84234…`, `Abgehakt: 3 von 5`, `Ungeprüft: 2 von 5`.
+Kontrolle: `Anmerkungen: 3`, Anmerkung 1 `src/Messwert.cs:8` mit Commit `d8cacccb…` und `[Muss]`, Anmerkung 2 `src/Sensor.cs:18-19` mit Commit `c13e91a4…` und `[Frage]`, Anmerkung 3 `web/anzeige.js (ganze Datei)` mit Commit `eb842340…` und `[Idee]`, `Abgehakt: 3 von 5`, `Ungeprüft: 2 von 5`.
 
-## 5. Aufräumen
+In der Dateiansicht schließt **Schließen** den Lauf: stdout bleibt leer, Exit 0.
 
-- Prozess beenden, falls er noch läuft: `kill $(cat <arbeit>/pid)` (nur diese PID).
+## 6. Aufräumen
+
+- Beide Prozesse beenden, falls sie noch laufen: `kill $(cat <arbeit>/pid)`, `kill $(cat <arbeit>/pid2)` (nur diese PIDs).
 - `<arbeit>` löschen, ebenso `.playwright-mcp/` im Arbeitsverzeichnis des Browser-Werkzeugs.
 - Im Repository von gitreviewA darf nur `Dokumentation/Bilder/readme/` und `README.md` geändert sein: `git status --short`.
 
 ## Beachten
 
-- Kein Inhalt aus gitreviewA selbst ins Bild (keine eigenen Pfade oder Dateinamen). Das Beispiel-Repository ist erfunden; Pfade des Arbeitsrechners erscheinen in den Bildern nicht (der `vscode://`-Link trägt sie nur als Verweisziel).
+- Kein Inhalt aus gitreviewA selbst ins Bild (keine eigenen Pfade oder Dateinamen). Das Beispiel-Repository ist erfunden; Pfade des Arbeitsrechners erscheinen in den Bildern nicht — der `vscode://`-Link trägt sie nur als Verweisziel, und die Dateiansicht zeigt den Pfad des neutralen Ordners (siehe Abschnitt 2).
 - Keine Markierungen ins Pixelbild malen; was zu sehen ist, sagt der Text in der README.
-- Ändert sich die Oberfläche, die Bilder und diese Tabelle gemeinsam nachziehen (Bilder 01–05 teilen sich denselben Lauf).
+- Ändert sich die Oberfläche, die Bilder und diese Tabelle gemeinsam nachziehen (Bilder 01–07 teilen sich denselben Lauf).
